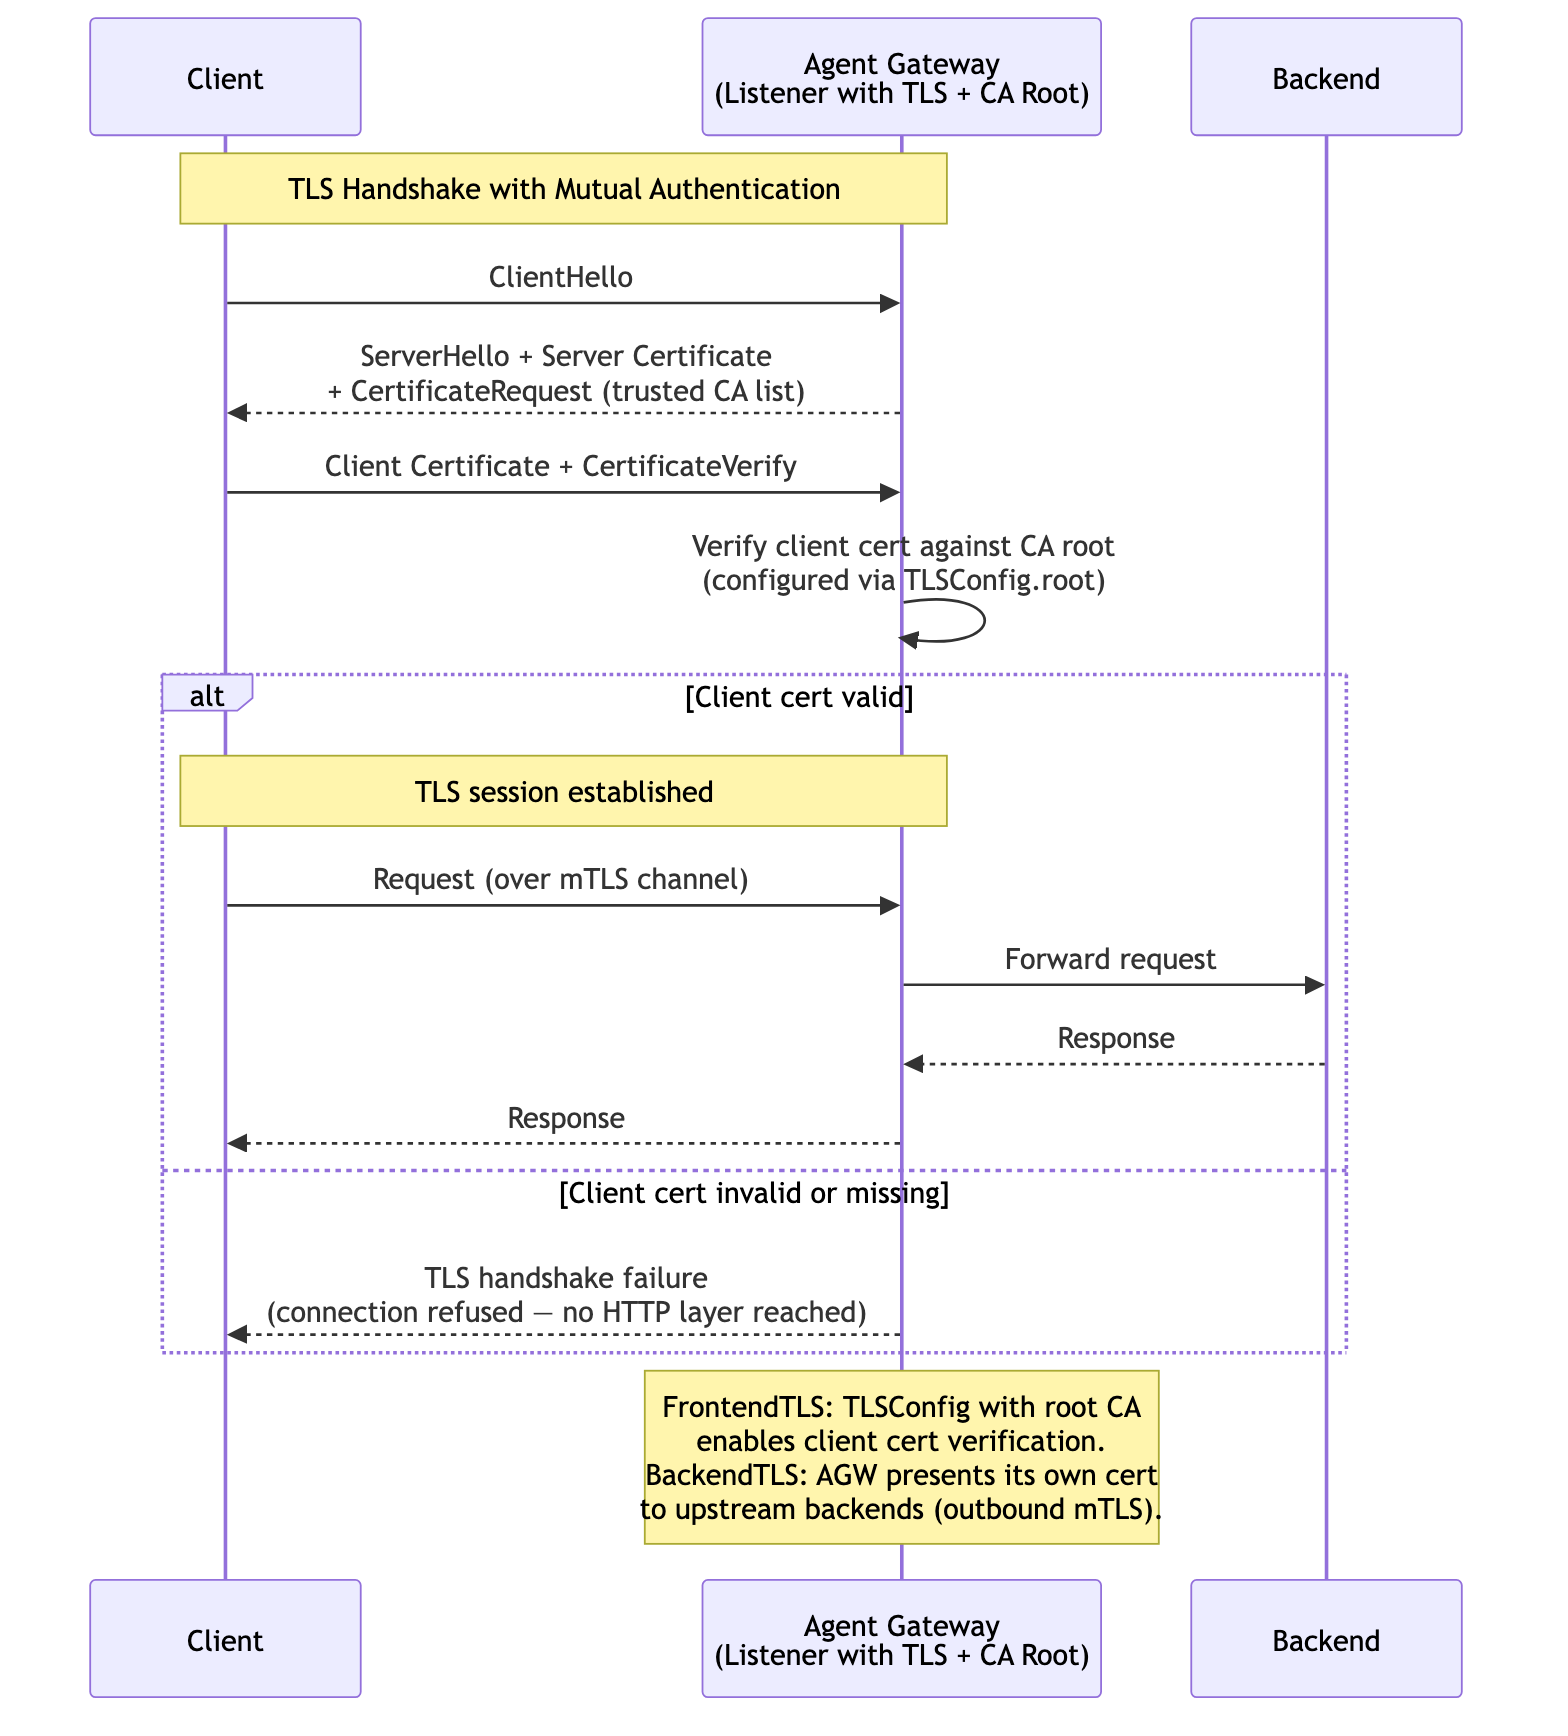
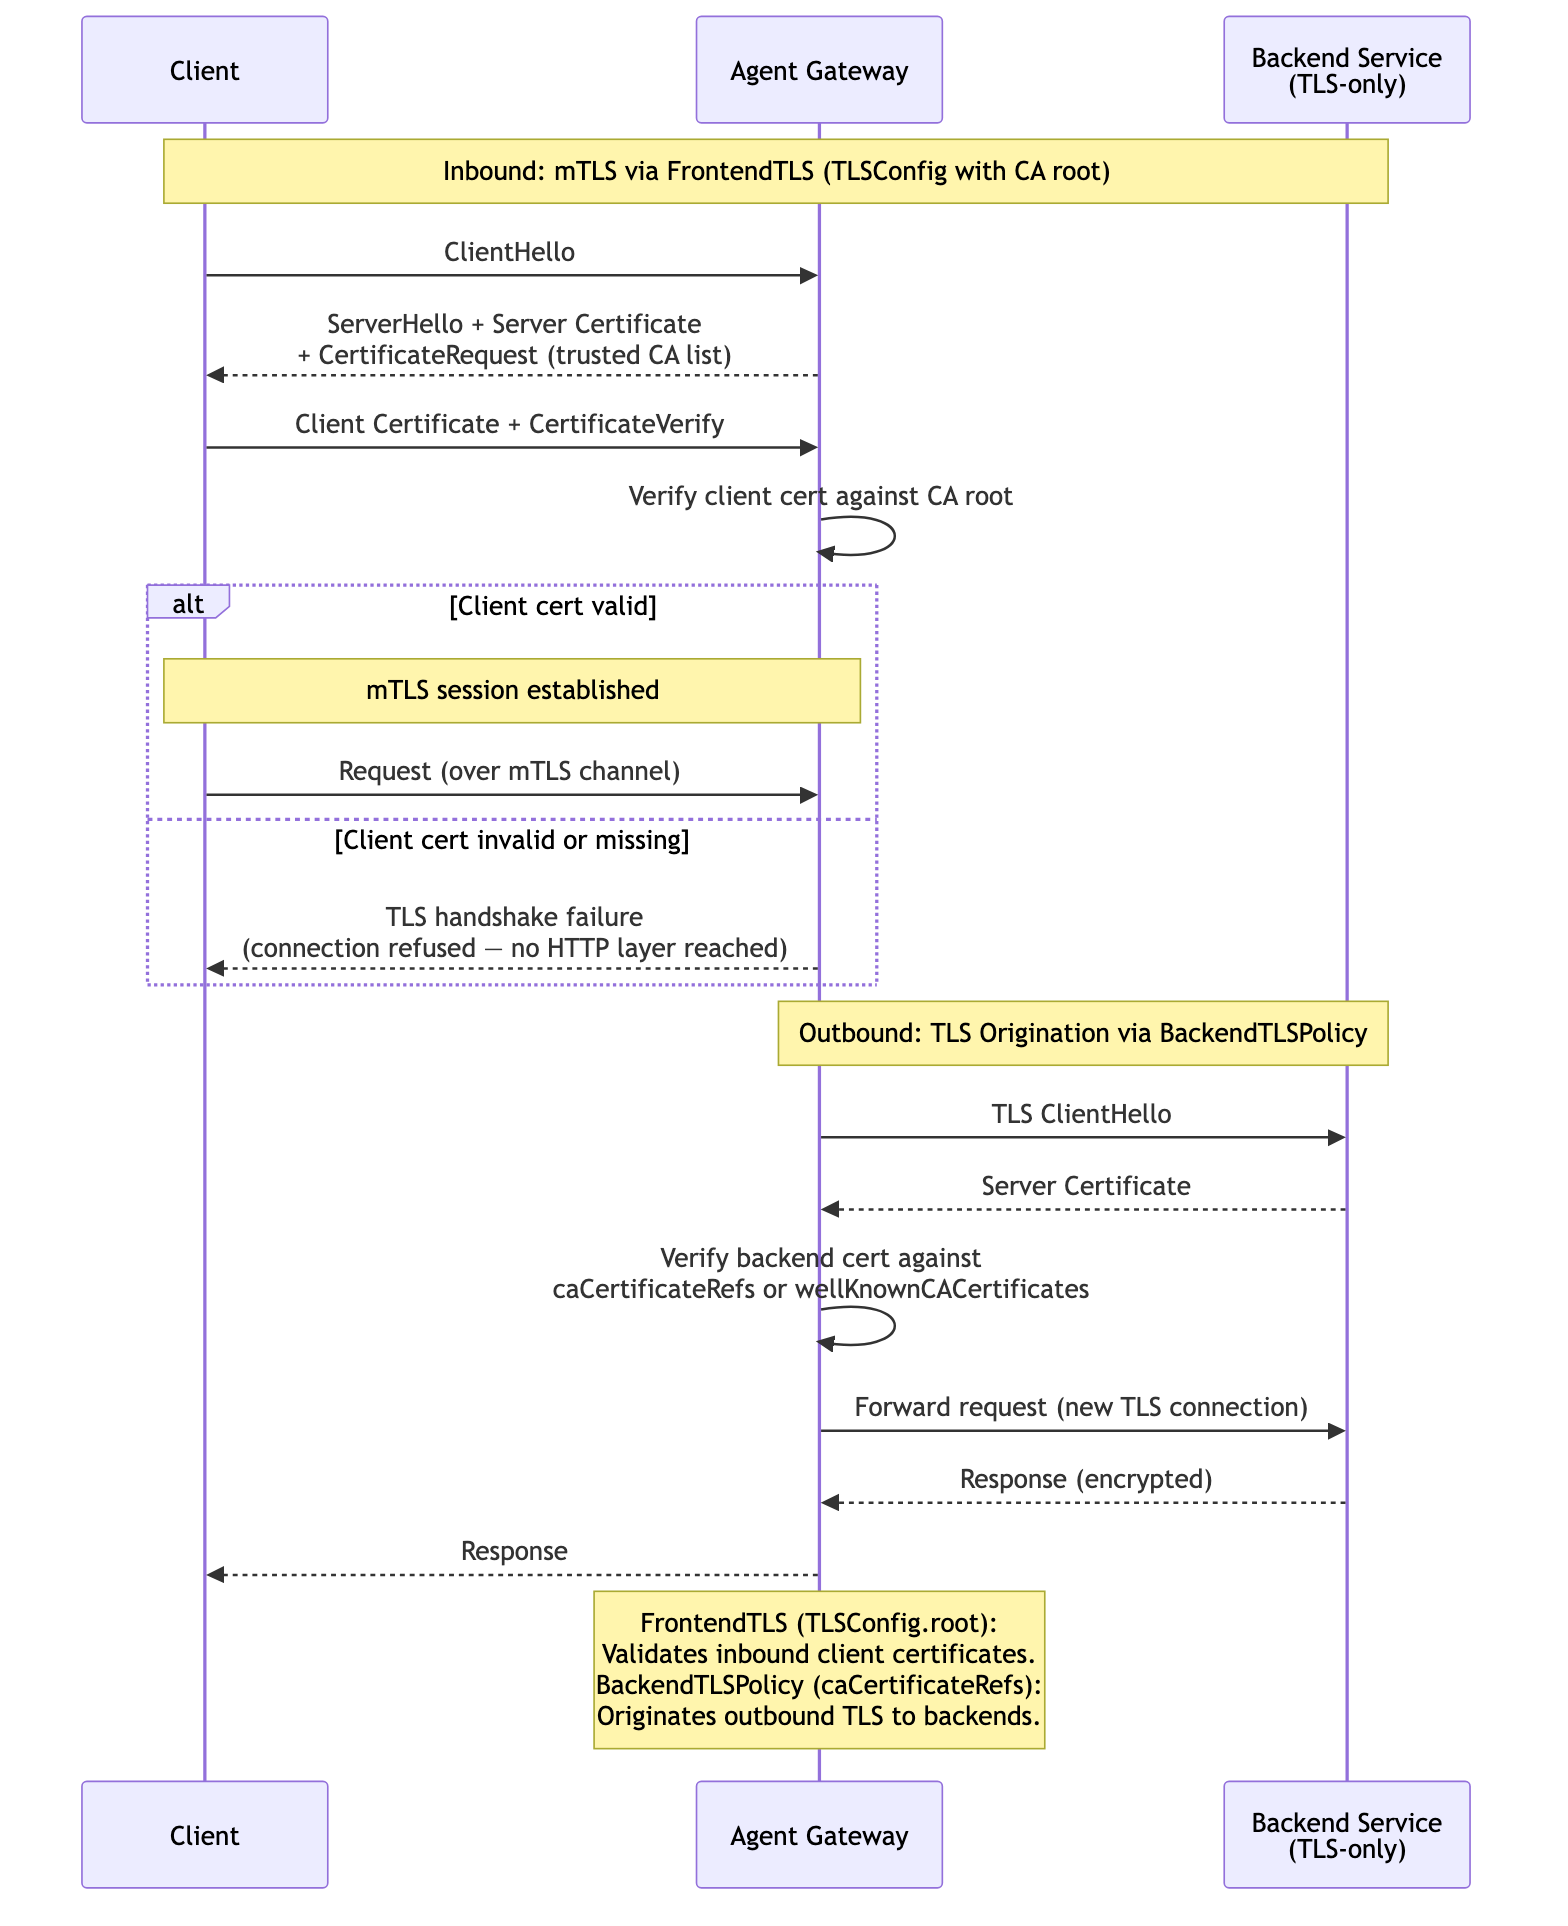
Update mTLS pattern with FrontendTLS + BackendTLSPolicy as independent features

Changed region(s): [[0.0625, 0.0, 0.9375, 0.9954], [0.75, 0.9332, 0.7812, 0.9643]]

diff --git a/Agentgateway-Auth-Patterns/agentgateway-auth-patterns.md b/Agentgateway-Auth-Patterns/agentgateway-auth-patterns.md
@@ -53,10 +53,14 @@ MCP clients (like Claude Code, VS Code extensions) that don't have pre-registere
 
 ## Mutual TLS (mTLS) Authentication
 
-Clients authenticate by presenting an X.509 certificate during the TLS handshake. The gateway validates the client certificate against a trusted CA root configured in the listener's `TLSConfig`. No application-layer credentials (tokens, passwords) are needed — the TLS handshake itself is the authentication. For outbound connections, `BackendTLS` configures the gateway to present its own client certificate to upstream backends.
+Two independent TLS features that can be used separately or combined for end-to-end TLS:
 
-> **Docs:** [Set up mTLS](https://docs.solo.io/agentgateway/2.2.x/setup/listeners/mtls/)
-> **API:** [TLSConfig](https://docs.solo.io/agentgateway/2.2.x/reference/api/api/#tlsconfig) · [BackendTLS](https://docs.solo.io/agentgateway/2.2.x/reference/api/solo/#backendtls)
+- **FrontendTLS (inbound mTLS):** Clients authenticate by presenting an X.509 certificate during the TLS handshake. The gateway validates the client certificate against a trusted CA root configured in the listener's `TLSConfig.root`. No application-layer credentials needed — the TLS handshake itself is the authentication. If the client cert is invalid or missing, the connection is refused at the TLS layer (no HTTP reached).
+
+- **BackendTLSPolicy (outbound TLS origination):** The gateway originates a new TLS connection to the backend, verifying the backend's server certificate against `caCertificateRefs` (ConfigMap) or `wellKnownCACertificates: System`. Used when backends only accept TLS connections (in-cluster or external services).
+
+> **Docs:** [Set up mTLS (FrontendTLS)](https://docs.solo.io/agentgateway/2.2.x/setup/listeners/mtls/) · [BackendTLS](https://docs.solo.io/agentgateway/2.2.x/security/backendtls/)
+> **API:** [TLSConfig](https://docs.solo.io/agentgateway/2.2.x/reference/api/api/#tlsconfig) · [BackendTLSPolicy](https://docs.solo.io/agentgateway/2.2.x/reference/api/solo/#backendtls)
 
 ![Mutual TLS](images/mtls.png)
 

diff --git a/Agentgateway-Auth-Patterns/flows/flow-mtls.md b/Agentgateway-Auth-Patterns/flows/flow-mtls.md
@@ -1,9 +1,13 @@
 # Mutual TLS (mTLS) Authentication
 
-Clients authenticate by presenting an X.509 certificate during the TLS handshake. The gateway validates the client certificate against a trusted CA root configured in the listener's `TLSConfig`. No application-layer credentials (tokens, passwords) are needed — the TLS handshake itself is the authentication. For outbound connections, `BackendTLS` configures the gateway to present its own client certificate to upstream backends.
+Two independent TLS features that can be used separately or combined for end-to-end TLS:
 
-> **Docs:** [Set up mTLS](https://docs.solo.io/agentgateway/2.2.x/setup/listeners/mtls/)
-> **API:** [TLSConfig](https://docs.solo.io/agentgateway/2.2.x/reference/api/api/#tlsconfig) · [BackendTLS](https://docs.solo.io/agentgateway/2.2.x/reference/api/solo/#backendtls)
+- **FrontendTLS (inbound mTLS):** Clients authenticate by presenting an X.509 certificate during the TLS handshake. The gateway validates the client certificate against a trusted CA root configured in the listener's `TLSConfig.root`. No application-layer credentials needed — the TLS handshake itself is the authentication. If the client cert is invalid or missing, the connection is refused at the TLS layer (no HTTP reached).
+
+- **BackendTLSPolicy (outbound TLS origination):** The gateway originates a new TLS connection to the backend, verifying the backend's server certificate against `caCertificateRefs` (ConfigMap) or `wellKnownCACertificates: System`. Used when backends only accept TLS connections (in-cluster or external services).
+
+> **Docs:** [Set up mTLS (FrontendTLS)](https://docs.solo.io/agentgateway/2.2.x/setup/listeners/mtls/) · [BackendTLS](https://docs.solo.io/agentgateway/2.2.x/security/backendtls/)
+> **API:** [TLSConfig](https://docs.solo.io/agentgateway/2.2.x/reference/api/api/#tlsconfig) · [BackendTLSPolicy](https://docs.solo.io/agentgateway/2.2.x/reference/api/solo/#backendtls)
 
 ![Diagram](../images/mtls.png)
 
